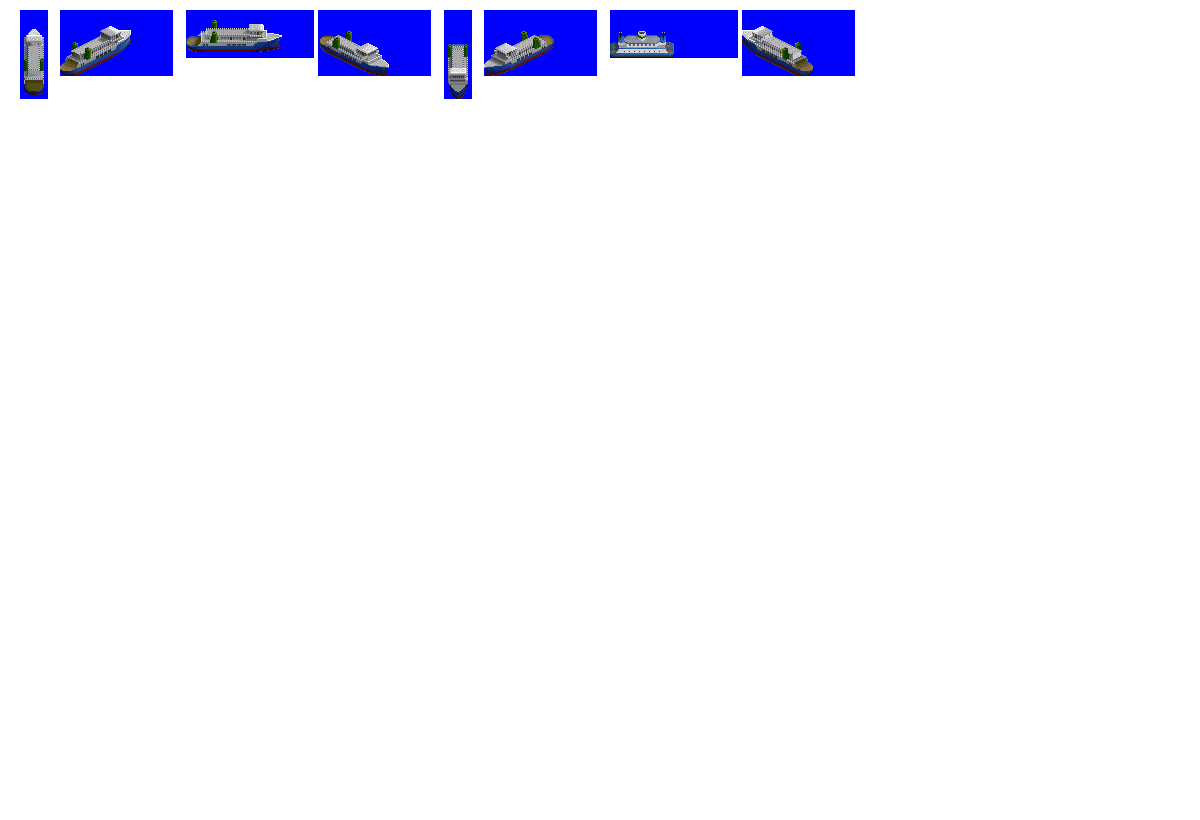
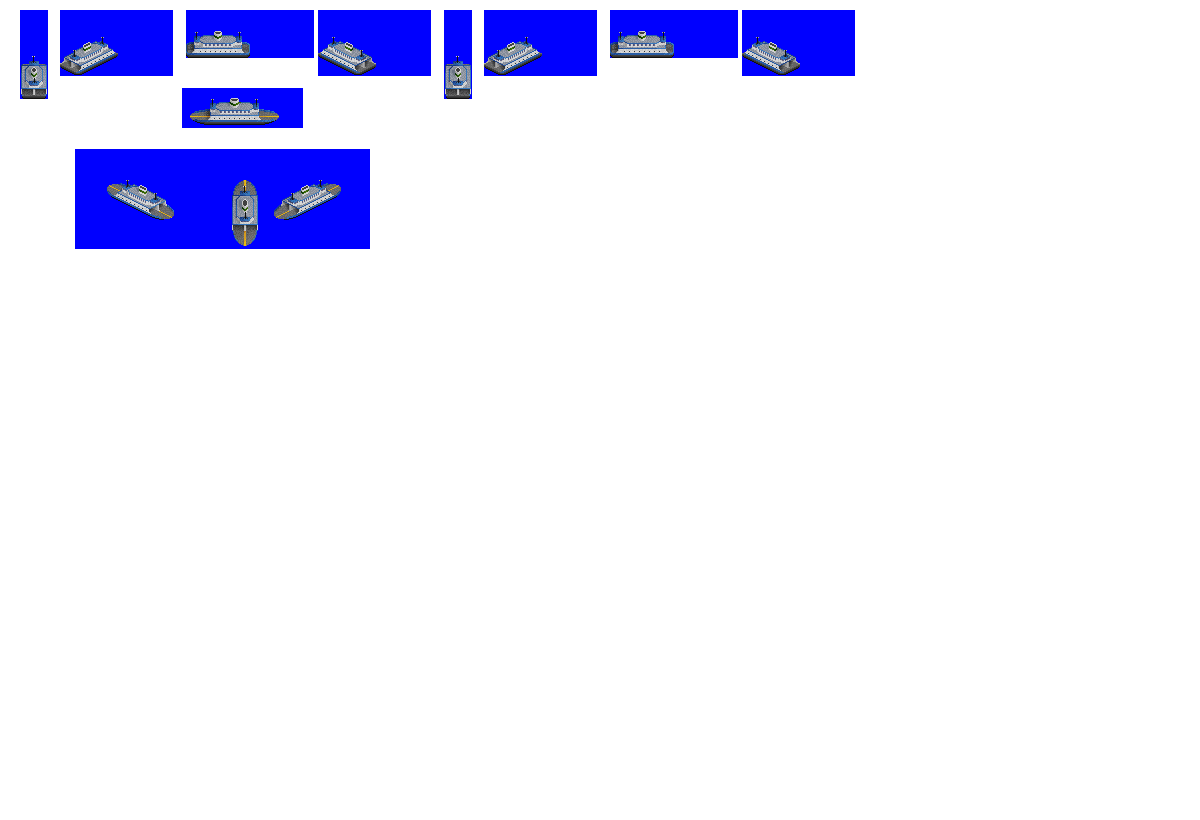
Change: small fast-loading pax ship now more complete

diff --git a/src/hulls.py b/src/hulls.py
@@ -5,6 +5,7 @@ class Hull(object):
     # base for rudimentary classes to hold hull properties for a ship
     # there's only instance of each, so I just used class properties...boilerplate reduced to minimum eh :)
     size_class = 'Define in subclass'
+    house_position = None # optional, only used when ship is combined from parts by graphics_processor
     # length
     # hull spritesheet file
     # vertical offset if needed, accounting for buy menu especially
@@ -69,6 +70,13 @@ class SmallShipHouseRear(Hull):
         self.load_state_y_offsets = [('empty', -1), ('part_load', 0), ('full_load', 1)]
 
 
+class TwoWayFerryMini(Hull):
+    def __init__(self):
+        self.size_class = 'mini'
+        self.hull_type = 'two_way_ferry'
+        self.load_state_y_offsets = [('empty', -1), ('part_load', 0), ('full_load', 1)]
+
+
 class TempMini(Hull):
     def __init__(self):
         self.size_class = 'mini'
@@ -90,5 +98,6 @@ registered_hulls = {'LargeRiverboatHouseRear': LargeRiverboatHouseRear(),
                     'LargeShipHouseRear': LargeShipHouseRear(),
                     'SmallRiverboatHouseRear': SmallRiverboatHouseRear(),
                     'SmallShipHouseRear': SmallShipHouseRear(),
+                    'TwoWayFerryMini': TwoWayFerryMini(),
                     'TempMini': TempMini(),
                     'TempMicro': TempMicro()}

diff --git a/src/ships/pax_fast_loading_mini.py b/src/ships/pax_fast_loading_mini.py
@@ -4,7 +4,7 @@ from ship import PaxFastLoadingShip
 ship = PaxFastLoadingShip(id = 'pax_fast_loading_mini',
                     numeric_id = 25,
                     title = 'Mini [Pax Fast Loading]',
-                    hull = 'TempMini',
+                    hull = 'TwoWayFerryMini',
                     buy_cost = 28,
                     fixed_run_cost_factor = 3.5,
                     fuel_run_cost_factor = 1.0,
